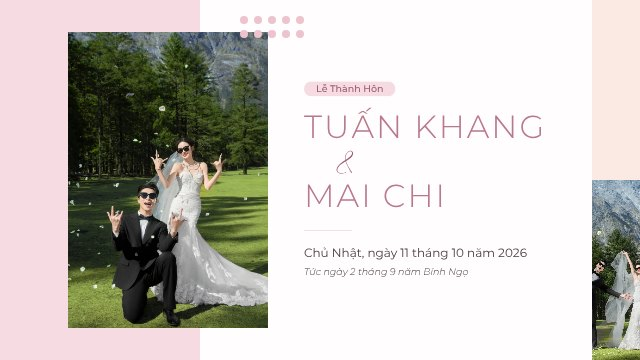
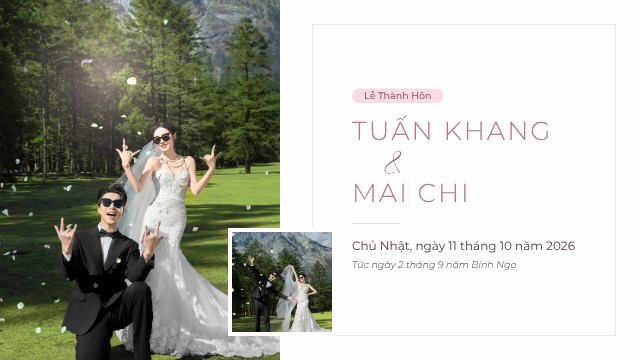
Slide cưới: mẫu "Mãi mãi về sau" bỏ cụm chấm, năm kiểu bố cục luân phiên, thêm quầng sáng + đốm sáng
Claude-Session: https://claude.ai/code/session_01FJvBGnU4bpa9JAWDTxco5L

diff --git a/slide-cuoi/templates/romantic-blush/index.js b/slide-cuoi/templates/romantic-blush/index.js
@@ -1,20 +1,23 @@
-// Slide sân khấu "Mãi mãi về sau" (1280×720, hồng pastel, khối màu phẳng): mỗi cảnh một dải hồng
-// dọc + ảnh chữ nhật đè lên mép dải, dải da đào hẹp kèm lát ảnh nhỏ ở mép bên kia, cụm chấm tròn;
-// tiêu đề viết hoa chữ không chân. Bố cục xen kẽ trái/phải, mọi khối bay từ ngoài vào. Từ thiệp
+// Slide sân khấu "Mãi mãi về sau" (1280×720, hồng pastel, khối màu phẳng): năm kiểu bố cục (_LAYOUTS)
+// luân phiên, hai cảnh liền nhau không trùng kiểu và đổi bên trái/phải xen kẽ; tiêu đề viết hoa chữ
+// không chân, mọi khối bay từ ngoài vào, quầng sáng trôi trên ảnh + đốm sáng lấp lánh. Từ thiệp
 // chỉ lấy ảnh, họ tên, ngày cưới, chuyện tình — không tên cha mẹ, không địa chỉ (khách đã ở tiệc).
 // Chỉ KHAI cảnh (CX_SLIDE.scenes); vẽ/chạy/xuất là việc của engine + runtime + slide-export.js.
 
 (function () {
+  const W = 1280;
+  const H = 720;
   const C = {
     paper: "#FFFDFD",
     band: "#F6DCE2",
     peach: "#FAEAE3",
-    dot: "#EDC3CE",
+    rule: "#EDC3CE",
     surface: "#F8E6EA",
     rose: "#B9788B",
     roseDeep: "#9C5A6E",
     ink: "#4A3A40",
     body: "rgba(74, 58, 64, 0.9)",
+    glow: "rgba(255, 222, 232, 0.55)",
   };
   const SANS = '"Montserrat", "Segoe UI", sans-serif';
   const CORM = '"Cormorant Infant", "Times New Roman", serif';
@@ -24,7 +27,7 @@
     title: { family: SANS, size: 40, weight: 300 },
     quote: { family: SANS, size: 36, weight: 300 },
     script: { family: SCRIPT, size: 96 },
-    names: { family: SANS, size: 64, weight: 300 },
+    names: { family: SANS, size: 52, weight: 300 },
     amp: { family: SCRIPT, size: 64 },
     date: { family: SANS, size: 24, weight: 400 },
     note: { family: SANS, size: 19, style: "italic", weight: 300 },
@@ -51,10 +54,12 @@
 
   window.CX_SLIDE = {
     id: "romantic-blush",
-    w: 1280,
-    h: 720,
+    w: W,
+    h: H,
     bg: C.paper,
     fade: 0.9,
+    // Đốm sáng lấp lánh trôi lên phủ cả slide (chỉ thấy rõ trên ảnh và mảng hồng).
+    fx: { sparkle: { n: 16, size: 8, alpha: 0.6, seed: 5 } },
     // Thư mục assets/data-template/ làm dữ liệu mẫu khi chưa chọn thiệp.
     demo: "romantic-blush",
     fonts: [
@@ -86,8 +91,20 @@
     const own = (file, fp) => (file ? { file, fp } : next());
 
     const scenes = [];
-    // Mỗi cảnh thêm một lát ảnh nhỏ ở dải da đào (ảnh kế tiếp của album).
-    const add = (sid, photo, blocks, opt = {}) => scenes.push(_scene(scenes.length, sid, photo, next(), blocks, opt, L));
+    // Bố cục: cảnh album luân phiên "duo"/"card", cảnh khác xoay vòng _MAIN; trùng kiểu với cảnh
+    // ngay trước thì lấy kiểu kế tiếp. Bên ảnh đổi trái/phải mỗi cảnh. Mỗi cảnh kèm ảnh phụ (ảnh
+    // kế tiếp của album) cho bố cục có hai ô ảnh.
+    let prev = "";
+    let km = 0;
+    let ka = 0;
+    const add = (sid, photo, blocks, opt = {}) => {
+      const album = sid.startsWith("album");
+      const pick = () => (album ? (ka++ % 2 ? "card" : "duo") : _MAIN[km++ % _MAIN.length]);
+      let lay = pick();
+      if (lay === prev) lay = pick();
+      prev = lay;
+      scenes.push(_scene(sid, photo, next(), blocks, { ...opt, lay, rev: scenes.length % 2 === 1 }, L));
+    };
 
     // Khối dùng lại nhiều lần. Chữ bay vào một quãng ngắn từ phía cột chữ (from "in", _scene đổi
     // thành left/right theo bên ảnh) — bay từ tận mép khung là chữ vắt ngang qua ảnh.
@@ -95,7 +112,7 @@
     // kicker nằm trong nhãn bo tròn (pill, _scene vẽ nền nhãn theo bề ngang chữ).
     const kicker = (text, n = 2) => ({ text, font: F.kicker, color: C.roseDeep, lh: 1.6, pill: true, anim: fly(n, 90) });
     const title = (text, n = 3, font = F.title) => ({ text, font, color: C.rose, lh: 1.3, mt: 24, caps: true, ls: 3, anim: fly(n, 180, 1.5) });
-    const rule = (n) => ({ line: true, w: 96, color: C.dot, mt: 28, anim: { k: "spread", d: d(n) } });
+    const rule = (n) => ({ line: true, w: 96, color: C.rule, mt: 28, anim: { k: "spread", d: d(n) } });
     const para = (text, n, mt = 28, font = F.body) => ({ text, font, color: C.body, lh: 1.65, mt, anim: fly(n, 80) });
     // Lời nói (cô dâu, chú rể, anh – em, gửi cha mẹ, cảm ơn): hiện bằng hiệu ứng đánh chữ.
     const say = (text, n, mt = 28) => ({ text, font: F.body, color: C.body, lh: 1.65, mt, anim: { k: "type", d: d(n) } });
@@ -192,14 +209,14 @@
     return scenes;
   }
 
-  // Một cảnh: ảnh một bên (cảnh chẵn bên trái, lẻ bên phải), chữ bên kia. Thời lượng (giây)
+  // Một cảnh theo bố cục opt.lay (_LAYOUTS), opt.rev = lật gương trái ↔ phải. Thời lượng (giây)
   // tự tính theo độ dài chữ khi cảnh không khai `dur`, để khách kịp đọc trên sân khấu.
   // MỌI khối chữ mang khoá `<sid>.<vị trí trong mảng khai>` (tính cả ô rỗng nên không xê dịch
   // theo dữ liệu; chữ trong cột con thêm `.<cột>.<dòng>`) — trang cha sửa chữ theo khoá đó,
   // sửa thành rỗng là bỏ khối. Thêm chữ vào cảnh mà không qua đây là chữ đó không sửa được.
   // Khối giữ `key` (engine chép sang phần tử chữ) và ảnh cảnh mang `edit: sid` — bộ phát dùng
   // hai dấu đó để bấm thẳng lên slide là mở đúng ô sửa.
-  function _scene(i, sid, photo, strip, blocks, opt, L) {
+  function _scene(sid, photo, strip, blocks, opt, L) {
     const texts = [];
     const apply = (b, key) => {
       if (!b) return null;
@@ -216,9 +233,19 @@
       return text.trim() ? { ...b, text, key } : null;
     };
     blocks = blocks.map((b, k) => apply(b, `${sid}.${k}`)).filter(Boolean);
-    const rev = i % 2 === 1;
-    // Chữ bay vào từ phía cột chữ: ảnh bên trái thì chữ đến từ bên phải và ngược lại.
-    blocks = blocks.map((b) => (b.anim?.from === "in" ? { ...b, anim: { ...b.anim, from: rev ? "left" : "right" } } : b));
+    const rev = !!opt.rev;
+    const G = _LAYOUTS[opt.lay] || _LAYOUTS.band;
+    // Hướng theo bản chưa lật gương; bố cục lật (rev) thì đổi trái ↔ phải.
+    const flip = (dir) => (rev ? _MIRROR[dir] || dir : dir);
+    // Chữ bay vào từ phía cột chữ (G.from), chờ thêm G.delay khi phải đợi nền chữ bay vào trước;
+    // bố cục chật dùng cỡ chữ đoạn nhỏ hơn; canh giữa thì mọi dòng canh giữa cột.
+    blocks = blocks.map((b) => {
+      let o = b.anim?.from === "in" ? { ...b, anim: { ...b.anim, from: flip(G.from) } } : b;
+      if (G.delay && o.anim) o = { ...o, anim: { ...o.anim, d: (o.anim.d || 0) + G.delay } };
+      if (G.compact && o.font === F.body) o = { ...o, font: F.bodyLong };
+      if (G.center && o.text != null) o = { ...o, align: "center", indent: 0 };
+      return o;
+    });
 
     // Đánh chữ nối đuôi: đoạn sau chờ đoạn trước gõ xong, khối đứng sau (chữ ký)
     // chờ đoạn cuối. Thời điểm tính theo chữ ĐÃ SỬA nên đổi lời là nhịp tự giãn theo.
@@ -233,54 +260,40 @@
     const len = blocks.reduce((n, b) => n + (b.text ? String(b.text).length : 0), 0);
     // Có đánh chữ: giữ thêm 4 giây sau khi gõ xong để khách đọc lại và chữ ký kịp hiện.
     const dur = Math.max(opt.dur || Math.min(16, Math.max(8, 4 + len * 0.045)), typedEnd ? typedEnd + 4 : 0);
-    // Bố cục cảnh ảnh trái (ảnh phải thì lật gương qua trục giữa): dải hồng dọc bay vào từ mép ·
-    // dải da đào hẹp bay vào từ mép đối diện, lát ảnh nhỏ trồi lên trong đó · ảnh chính chữ nhật
-    // đè lên mép dải hồng, bay vào hơi nghiêng · cụm chấm 2×5 nở lần lượt ở góc trên ảnh.
-    // Ảnh khách tự tải ở mục "Ảnh trong slide" (L.photos, khoá = id cảnh / `<id>.p1` cho lát ảnh)
-    // đè ảnh của thiệp. Chấm tròn và nhãn bo là ô ảnh rỗng (chỉ tô màu `empty`).
-    const W = 1280;
-    const H = 720;
-    const BW = 400;
-    const SW = 96;
-    const PX = 136;
-    const PY = 64;
-    const PW = 400;
-    const PH = 592;
+    // Phần nhìn của bố cục: G.build vẽ theo toạ độ bản chưa lật (cảnh ảnh trái / chữ phải…), mx lật
+    // gương qua trục giữa khi rev. Ảnh khách tự tải ở mục "Ảnh trong slide" (L.photos, khoá = id
+    // cảnh, `<id>.p1` cho ảnh phụ) đè ảnh của thiệp.
     const mx = (x, w) => (rev ? W - x - w : x);
-    const side = rev ? "right" : "left";
-    const far = rev ? "left" : "right";
-    const pic = (key, ph) => {
+    const slots = [];
+    const pic = (key, ph, x, y, w, h, anim, more) => {
       const mine = L.photos?.[key];
-      return { src: mine?.src || getImageUrl(ph.file), focal: mine ? mine.focal : ph.fp, def: ph.file ? getImageUrl(ph.file) : "" };
+      slots.push({ key, def: ph.file ? getImageUrl(ph.file) : "", w, h });
+      return { type: "image", x: mx(x, w), y, w, h, src: mine?.src || getImageUrl(ph.file), focal: mine ? mine.focal : ph.fp, kb: true, empty: C.surface, edit: key, anim: _flipAnim(anim, flip), ...more };
     };
-    const main = pic(sid, photo);
-    const k2 = `${sid}.p1`;
-    const sub = pic(k2, strip);
-    const SY = 360;
-    const dots = [];
-    for (let r = 0; r < 2; r++)
-      for (let c = 0; c < 5; c++)
-        dots.push({ type: "image", src: "", shape: "circle", x: mx(PX + PW - 56 + c * 28, 16), y: 32 + r * 28, w: 16, h: 16, empty: C.dot, anim: { k: "zoom", s0: 0.01, t: 0.6, d: 1.1 + (r * 5 + c) * 0.05 } });
-    const back = [
-      { type: "rect", x: mx(0, BW), y: 0, w: BW, h: H, fill: C.band, anim: { k: "fly", from: side, t: 1.3, d: 0 } },
-      { type: "rect", x: mx(W - SW, SW), y: 0, w: SW, h: H, fill: C.peach, anim: { k: "fly", from: far, t: 1.3, d: 0.15 } },
-      { type: "image", x: mx(W - SW, SW), y: SY, w: SW, h: H - SY, src: sub.src, focal: sub.focal, kb: "in", empty: C.surface, edit: k2, anim: { k: "reveal", from: "bottom", drift: 60, t: 1.4, d: 0.7 } },
-      { type: "image", x: mx(PX, PW), y: PY, w: PW, h: PH, src: main.src, focal: main.focal, kb: true, empty: C.surface, edit: sid, anim: { k: "fly", from: side, rot: rev ? 5 : -5, t: 1.6, d: 0.3 } },
-      ...dots,
-    ];
+    const box = (x, y, w, h, fill, anim) => ({ type: "rect", x: mx(x, w), y, w, h, fill, anim: _flipAnim(anim, flip) });
+    // Ảnh phụ viền trắng: nền trắng + ảnh, bay vào cùng nhau.
+    const framed = (x, y, s, anim) => ({
+      type: "group", x: mx(x, s), y, w: s, h: s, anim: _flipAnim(anim, flip),
+      kids: [box(x, y, s, s, C.paper), pic(`${sid}.p1`, strip, x + 8, y + 8, s - 16, s - 16)],
+    });
+    const glow = (x, y, r) => ({ type: "orb", x: rev ? W - x : x, y, r, color: C.glow, dx: 60, dy: 34, pulse: 0.08 });
+    const outline = (x, y, w, h, anim) => ({ type: "frame", x: mx(x, w), y, w, h, stroke: C.band, lw: 2, anim: _flipAnim(anim, flip) });
+    const back = G.build({ sid, photo, strip, pic, box, framed, glow, outline });
 
-    // Bên chữ: cột giữa ảnh chính và dải da đào, canh giữa theo chiều dọc. Khối có `indent` (dấu &)
-    // lùi vào; khối `pill` có nền nhãn bo tròn ôm theo chữ, nở ra cùng nhịp với chữ.
-    const tx = rev ? SW + 64 : PX + PW + 72;
-    const text = L.column(blocks, { x: tx, w: W - SW - 64 - (PX + PW + 72), top: 56, bottom: H - 56 });
+    // Cột chữ, canh giữa theo chiều dọc. Khối có `indent` (dấu &) lùi vào; khối `pill` có nền nhãn
+    // bo tròn ôm theo chữ, mở ra cùng nhịp với chữ; bố cục canh giữa thì vạch ngắn cũng canh giữa.
+    const col = G.col;
+    const text = L.column(blocks, { x: mx(col.x, col.w), w: col.w, top: col.top, bottom: col.bottom });
     const pills = [];
     blocks.forEach((b, k) => {
       const el = text[k];
       if (!el) return;
       if (b.indent) el.x += b.indent;
+      if (G.center && el.type === "line") el.x += (col.w - el.w) / 2;
       if (b.pill) {
-        el.x += 24;
-        pills.push({ type: "image", src: "", radius: el.h / 2, x: el.x - 24, y: el.y, w: el.tw + 48, h: el.h, empty: C.band, anim: { k: "reveal", from: rev ? "right" : "left", t: 0.9, d: el.anim?.d || 0 } });
+        if (!G.center) el.x += 24;
+        const px = G.center ? el.x + (col.w - el.tw) / 2 - 24 : el.x - 24;
+        pills.push({ type: "image", src: "", radius: el.h / 2, x: px, y: el.y, w: el.tw + 48, h: el.h, empty: C.band, anim: { k: "reveal", from: flip(G.from) === "left" ? "left" : "right", t: 0.9, d: el.anim?.d || 0 } });
       }
     });
     return {
@@ -288,11 +301,85 @@
       dur,
       label: opt.label || "",
       texts,
-      photos: [
-        { key: sid, def: main.def, w: PW, h: PH },
-        { key: k2, def: sub.def, w: SW, h: H - SY },
-      ],
+      photos: slots,
       els: [{ type: "rect", x: 0, y: 0, w: W, h: H, fill: C.paper }, ...back, ...pills, ...text],
     };
   }
+
+  // Lật hướng bay / mở của hiệu ứng theo bố cục lật gương.
+  const _MIRROR = { left: "right", right: "left", tl: "tr", tr: "tl", bl: "br", br: "bl" };
+  const _flipAnim = (a, flip) => (a && typeof a.from === "string" ? { ...a, from: flip(a.from) } : a);
+
+  // Năm kiểu bố cục, toạ độ theo bản chưa lật. build() trả phần nền + ảnh (vẽ dưới chữ); col = cột
+  // chữ {x, w, top, bottom}; from = phía chữ bay vào; compact = chữ đoạn nhỏ hơn (cột chật);
+  // center = canh giữa. Bố cục nào có `framed` là có ô ảnh phụ `<id>.p1`.
+  const _MAIN = ["split", "band", "card", "stack"];
+  const _LAYOUTS = {
+    // Chia đôi: ảnh tràn nửa trái mở dần ra, khung viền hồng quanh cột chữ, ảnh phụ viền trắng đè
+    // lên đường chia.
+    split: {
+      from: "right",
+      compact: true,
+      col: { x: 704, w: 472, top: 80, bottom: 640 },
+      build: ({ sid, photo, pic, framed, glow, outline }) => [
+        pic(sid, photo, 0, 0, 560, 720, { k: "reveal", from: "left", drift: 120, t: 1.5, d: 0 }),
+        glow(160, 140, 320),
+        outline(624, 48, 608, 624, { k: "reveal", from: "top", t: 1.4, d: 0.4 }),
+        framed(456, 456, 216, { k: "fly", from: "bottom", t: 1.5, d: 0.6 }),
+      ],
+    },
+    // Dải dọc: dải hồng bay vào từ mép, ảnh chữ nhật đè lên mép dải, dải da đào hẹp ở mép kia kèm
+    // ảnh phụ trồi lên.
+    band: {
+      from: "right",
+      col: { x: 608, w: 512, top: 56, bottom: 664 },
+      build: ({ sid, photo, strip, pic, box, glow }) => [
+        box(0, 0, 400, 720, C.band, { k: "fly", from: "left", t: 1.3, d: 0 }),
+        box(1184, 0, 96, 720, C.peach, { k: "fly", from: "right", t: 1.3, d: 0.15 }),
+        pic(`${sid}.p1`, strip, 1184, 360, 96, 360, { k: "reveal", from: "bottom", drift: 60, t: 1.4, d: 0.7 }, { kb: "in" }),
+        pic(sid, photo, 136, 64, 400, 592, { k: "fly", from: "left", rot: -5, t: 1.6, d: 0.3 }),
+        glow(300, 200, 280),
+      ],
+    },
+    // Thẻ chữ: ảnh lớn chiếm hai phần ba bên phải, thẻ trắng chứa chữ đè lên mép ảnh, mảng hồng
+    // lệch xuống sau thẻ.
+    card: {
+      from: "left",
+      compact: true,
+      delay: 0.6,
+      col: { x: 104, w: 504, top: 96, bottom: 624 },
+      build: ({ sid, photo, pic, box, glow }) => [
+        pic(sid, photo, 520, 0, 760, 720, { k: "fly", from: "right", t: 1.6, d: 0 }),
+        glow(1060, 180, 340),
+        box(32, 88, 600, 600, C.band, { k: "fly", from: "bl", t: 1.5, d: 0.2 }),
+        box(56, 56, 600, 608, C.paper, { k: "fly", from: "left", t: 1.5, d: 0.35 }),
+      ],
+    },
+    // Chồng ảnh: dải hồng nằm ngang bên phải, ảnh dọc cao rơi từ trên xuống, ảnh phụ vuông viền trắng
+    // bay lên đè lệch góc dưới.
+    stack: {
+      from: "left",
+      compact: true,
+      col: { x: 80, w: 480, top: 64, bottom: 656 },
+      build: ({ sid, photo, pic, box, framed, glow }) => [
+        box(600, 128, 680, 464, C.band, { k: "fly", from: "right", t: 1.3, d: 0 }),
+        pic(sid, photo, 836, 48, 360, 624, { k: "fly", from: "top", t: 1.6, d: 0.2 }),
+        glow(980, 140, 300),
+        framed(616, 404, 256, { k: "fly", from: "bottom", t: 1.6, d: 0.45 }),
+      ],
+    },
+    // Bộ đôi (cảnh album): hai ảnh cao tràn hai mép bay vào ngược chiều, câu trích canh giữa trên nền
+    // hồng ở giữa.
+    duo: {
+      from: "bottom",
+      center: true,
+      col: { x: 448, w: 384, top: 80, bottom: 640 },
+      build: ({ sid, photo, strip, pic, box, glow }) => [
+        box(400, 0, 480, 720, C.band, { k: "reveal", from: "top", t: 1.2, d: 0 }),
+        pic(sid, photo, 0, 0, 400, 720, { k: "fly", from: "left", t: 1.6, d: 0.15 }),
+        pic(`${sid}.p1`, strip, 880, 0, 400, 720, { k: "fly", from: "right", t: 1.6, d: 0.3 }, { kb: "in" }),
+        glow(200, 120, 280),
+      ],
+    },
+  };
 })();

diff --git a/core/config.js b/core/config.js
@@ -13,7 +13,7 @@ const USE_CACHE = true;
 // Bản thân file này KHÔNG mang `?v=` (nó là mỏ neo, phải đọc được version từ
 // nó trước đã) → trên Cloudflare phải có Cache Rule bypass `/core/config.js`,
 // nếu không đổi số ở đây cũng vô nghĩa.
-const CX_VERSION = "2026.11.10-9";
+const CX_VERSION = "2026.11.10-10";
  
 // Thẻ <link> CSS viết cứng trong HTML không tự mang `?v=` → dễ rơi vào cảnh
 // HTML/partial đã là bản mới mà CSS vẫn là bản cũ (trang không vỡ, chỉ sai bố

diff --git a/slide-cuoi/templates.js b/slide-cuoi/templates.js
@@ -6,7 +6,7 @@ window.CX_SLIDE_TEMPLATES = [
   {
     id: "romantic-blush",
     name: "Mãi mãi về sau",
-    desc: "Hồng pastel, khối màu phẳng, ảnh bay từ ngoài vào",
+    desc: "Hồng pastel, mỗi cảnh một bố cục, ảnh bay từ ngoài vào",
     ratio: "16 / 9",
     thumb: "/slide-cuoi/templates/romantic-blush/thumb.jpg",
   },

diff --git a/docs/PLAN-slide-cuoi.md b/docs/PLAN-slide-cuoi.md
@@ -12,10 +12,10 @@
 > Xưng hô trong lời văn: cô dâu, chú rể nói với quan khách và cha mẹ thì xưng **"con"**; chú rể
 > nói với cô dâu là **"anh"**, cô dâu nói với chú rể là **"em"**. **Không chèn họ tên vào lời văn**
 > — tên chỉ đứng riêng ở cảnh mở đầu.
-> Mẫu đầu tiên: `templates/romantic-blush/` ("Mãi mãi về sau") — 16:9 hồng pastel khối màu phẳng
-> (dải hồng dọc + ảnh chữ nhật đè mép dải, dải da đào kèm lát ảnh nhỏ ở mép kia, cụm chấm tròn,
-> tiêu đề viết hoa chữ không chân), mọi khối bay từ ngoài vào; mỗi cảnh hai ô ảnh (`<id>` và
-> `<id>.p1`). Mẫu thứ hai: `templates/mai-ben-nhau/` ("Mãi Bên Nhau") — bố
+> Mẫu đầu tiên: `templates/romantic-blush/` ("Mãi mãi về sau") — 16:9 hồng pastel khối màu phẳng,
+> năm kiểu bố cục luân phiên (`_LAYOUTS`: chia đôi · dải dọc · thẻ chữ · chồng ảnh · bộ đôi cho cảnh
+> album), hai cảnh liền nhau không trùng kiểu và lật trái/phải xen kẽ; mọi khối bay từ ngoài vào,
+> quầng sáng trôi trên ảnh + đốm sáng lấp lánh. Bố cục có ảnh phụ thêm ô `<id>.p1`. Mẫu thứ hai: `templates/mai-ben-nhau/` ("Mãi Bên Nhau") — bố
 > cục tạp chí (nền hồng xám, mảng nâu be lệch sau ảnh, tiêu đề tiếng Anh viết hoa dãn rộng,
 > chữ dọc sát mép), mỗi cảnh nhiều ảnh bay từ ngoài khung vào. **Thiệp ít ảnh hơn số khung thì
 > ảnh LẶP VÒNG cho đủ** — không bớt cảnh, không để khung trống. Mẫu này theo LỜI CÔ DÂU: sau Mở đầu + Đôi
